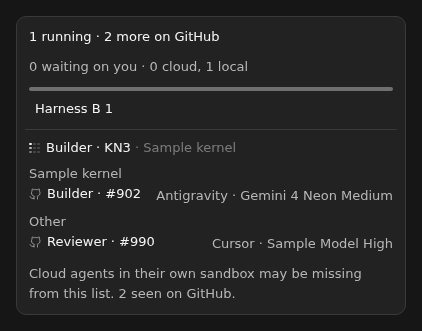
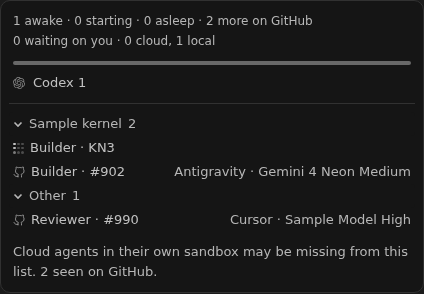
#234: green GitHub agents in the grouped running card

diff --git a/wizbar/src/StatsPanel.tsx b/wizbar/src/StatsPanel.tsx
@@ -10,7 +10,9 @@ import {
   useSettings,
   type PluginSidebarThread,
 } from "@get-bb/plugin-sdk/app";
-import { UnseenAgentGroups, UnseenDisclosure, UnseenSummary } from "./agents/UnseenAgents";
+import { agentsBySpec, UnseenAgentRows, UnseenDisclosure } from "./agents/UnseenAgents";
+import type { GitHubAgent } from "./agents/format";
+import { agentsSummary } from "./agents/words";
 import { useAgentsRead } from "./agents/use-agents";
 import { modelLabel } from "./card-meta";
 import { harnessName } from "./model-names";
@@ -207,7 +209,7 @@ interface ThreadGroup {
 }
 
 function RunningThreadsList({ groups, labels, pluginId }: {
-  groups: readonly ThreadGroup[];
+  groups: readonly (ThreadGroup & { githubAgents: readonly GitHubAgent[] })[];
   labels: ReadonlyMap<string, string>;
   pluginId: string;
 }) {
@@ -215,7 +217,7 @@ function RunningThreadsList({ groups, labels, pluginId }: {
   const groupId = useId();
   const [, refresh] = useReducer((n: number) => n + 1, 0);
   const folded = collapsedGroups.get(pluginId);
-  const lineCount = groups.reduce((count, group) => count + 1 + (folded?.has(group.key) ? 0 : group.threads.length), 0);
+  const lineCount = groups.reduce((count, group) => count + 1 + (folded?.has(group.key) ? 0 : group.threads.length + group.githubAgents.length), 0);
   const viewport = useRef<HTMLUListElement>(null);
   const [edges, setEdges] = useState({ top: false, bottom: false, height: 0 });
 
@@ -248,9 +250,9 @@ function RunningThreadsList({ groups, labels, pluginId }: {
           ...list, position: "absolute", inset: 0, minHeight: 0, maxHeight: `round(down, 100cqh, ${ROW_HEIGHT}px)`, overflowY: "auto", overscrollBehaviorY: "contain",
           scrollPaddingTop: (sticky ? 2 : 1) * ROW_HEIGHT, scrollPaddingBottom: ROW_HEIGHT,
         }}>
-          {groups.map(({ key, name, threads }) => {
+          {groups.map(({ key, name, threads, githubAgents }) => {
             const expanded = !folded?.has(key);
-            const count = threads.filter((thread) => !thread.leaving).length;
+            const count = threads.filter((thread) => !thread.leaving).length + githubAgents.length;
             const heading = `${groupId}-${key ?? "other"}`;
             const contents = `${heading}-threads`;
             return (
@@ -291,6 +293,9 @@ function RunningThreadsList({ groups, labels, pluginId }: {
                       </li>
                     );
                   })}
+                  {expanded && githubAgents.length > 0 ? (
+                    <UnseenAgentRows agents={githubAgents} heading={heading} rowStyle={rowButton} rowClass={rowClass} />
+                  ) : null}
                 </ul>
               </li>
             );
@@ -350,7 +355,11 @@ export function StatsPanel({ rows, stale = false }: { rows: readonly PluginSideb
       group.threads.push(thread);
     }
   }
-  const groups = [...bySpec.values(), other].filter((group) => group.threads.length > 0);
+  const githubBySpec = agentsBySpec(stats.unseen?.agents ?? [], file);
+  const groups = [...bySpec.values(), other]
+    .map((group) => ({ ...group, githubAgents: githubBySpec.get(group.key) ?? [] }))
+    .filter((group) => group.threads.length > 0 || group.githubAgents.length > 0);
+  const githubSummary = agentsSummary(stats.unseen);
   const summary = stats.status === "ready" ? `${cardSummary(stats)}${stale ? " · last known" : ""}` : "";
   return (
     <section aria-label="Running threads" data-stale={stale ? "true" : undefined} style={{
@@ -361,7 +370,9 @@ export function StatsPanel({ rows, stale = false }: { rows: readonly PluginSideb
       {stats.status !== "ready" ? <p style={quiet}>Stats unavailable</p> : (
         <>
           <div style={{ flexShrink: 0, fontSize: 12 }}>
-            <p style={{ ...quiet, ...oneLine }}>{stats.states.awake} awake · {stats.states.starting} starting · {stats.states.asleep} asleep</p>
+            <p style={githubSummary ? quiet : { ...quiet, ...oneLine }}>
+              {stats.states.awake} awake · {stats.states.starting} starting · {stats.states.asleep} asleep{githubSummary}
+            </p>
             <p style={quiet}>{summary}</p>
           </div>
           {stats.harness.length > 0 ? (
@@ -384,8 +395,6 @@ export function StatsPanel({ rows, stale = false }: { rows: readonly PluginSideb
             </div>
           ) : null}
           {groups.length > 0 ? <RunningThreadsList groups={groups} labels={labels} pluginId={pluginId} /> : null}
-          <UnseenSummary running={stats.running.total} unseen={stats.unseen} />
-          <ul style={list}><UnseenAgentGroups unseen={stats.unseen} specs={file} /></ul>
         </>
       )}
       <UnseenDisclosure unseen={stats.unseen} />

diff --git a/wizbar/src/agents/UnseenAgents.tsx b/wizbar/src/agents/UnseenAgents.tsx
@@ -1,73 +1,57 @@
+import type { CSSProperties } from "react";
 import { useBbNavigate } from "@get-bb/plugin-sdk/app";
 import { GithubIcon } from "@hugeicons/core-free-icons";
 import { HugeiconsIcon } from "@hugeicons/react";
-import type { SpecsFileV4 } from "../fixtures/v4";
+import type { SpecKeyV4, SpecsFileV4 } from "../fixtures/v4";
 import { tokens } from "../specs/theme";
 import type { GitHubAgent } from "./format";
 import type { UnseenAgents } from "./match";
-import { agentsDisclosure, agentsSummary } from "./words";
+import { agentsDisclosure } from "./words";
 
 const quiet = { color: tokens.mutedText } as const;
 const roles = { builder: "Builder", reviewer: "Reviewer", fleet: "Fleet" } as const;
-
-export function UnseenSummary({ running, unseen }: { running: number; unseen?: UnseenAgents }) {
-  const more = agentsSummary(unseen);
-  return more ? <p style={{ margin: 0, flexShrink: 0 }}>{running} running{more}</p> : null;
-}
 
 export function UnseenDisclosure({ unseen }: { unseen?: UnseenAgents }) {
   return <p style={{ ...quiet, margin: 0, flexShrink: 0 }}>{agentsDisclosure(unseen)}</p>;
 }
 
-export function UnseenAgentRows({ agents }: { agents: readonly GitHubAgent[] }) {
+export function UnseenAgentRows({ agents, heading, rowStyle, rowClass }: {
+  agents: readonly GitHubAgent[];
+  heading: string;
+  rowStyle: CSSProperties;
+  rowClass: string;
+}) {
   const navigate = useBbNavigate();
   return agents.map(({ repository, ticket, agent, harness, model, pr }) => {
     const number = ticket.slice(ticket.lastIndexOf("#") + 1);
     const url = pr ?? `https://github.com/${repository}/issues/${number}`;
+    const details = `${harness} · ${model}`;
     return (
       <li key={`${ticket}:${agent}`}>
-        <button type="button" className="bg-transparent hover:bg-sidebar-accent/60 focus-visible:ring-1 focus-visible:ring-inset"
-          style={{
-            appearance: "none", margin: 0, border: 0, borderRadius: 4,
-            color: "inherit", font: "inherit", textAlign: "left", width: "100%", padding: "0 4px",
-            display: "flex", alignItems: "baseline", flexWrap: "wrap", columnGap: 8, cursor: "pointer",
-          }}
+        <button type="button" className={rowClass} style={rowStyle} aria-describedby={heading}
           onClick={() => navigate.openUrl(url)}>
-          <span style={{ display: "inline-flex", alignItems: "center", gap: 6 }}>
-            <HugeiconsIcon icon={GithubIcon} size={12} strokeWidth={1.5} aria-hidden="true" style={quiet} />
-            {roles[agent]} · #{number}
-          </span>
-          <span style={{ ...quiet, marginLeft: "auto", overflowWrap: "anywhere" }}>{harness} · {model}</span>
+          <HugeiconsIcon icon={GithubIcon} size={12} strokeWidth={1.5} aria-hidden="true" style={{ ...quiet, flexShrink: 0 }} />
+          <span style={{ flexShrink: 0 }}>{roles[agent]} · #{number}</span>{" "}
+          <span title={details} style={{
+            ...quiet, marginLeft: "auto", minWidth: 0, overflow: "hidden", textOverflow: "ellipsis", whiteSpace: "nowrap",
+          }}>{details}</span>
         </button>
       </li>
     );
   });
 }
 
-export function UnseenAgentGroups({ unseen, specs }: { unseen?: UnseenAgents; specs: SpecsFileV4 | null }) {
-  if (!unseen?.count) return null;
-  const byTicket = new Map<string, string>();
+export function agentsBySpec(agents: readonly GitHubAgent[], specs: SpecsFileV4 | null) {
+  const byTicket = new Map<string, SpecKeyV4>();
   for (const spec of specs?.specs ?? []) {
     for (const { ticket } of spec.tickets) byTicket.set(ticket.toLowerCase(), spec.spec);
   }
-  const groups = new Map<string | null, GitHubAgent[]>();
-  for (const agent of unseen.agents) {
+  const groups = new Map<SpecKeyV4 | null, GitHubAgent[]>();
+  for (const agent of agents) {
     const spec = byTicket.get(agent.ticket.toLowerCase()) ?? null;
     const group = groups.get(spec) ?? [];
     group.push(agent);
     groups.set(spec, group);
   }
-  const order = (specs?.specs ?? []).map(({ spec, shortName }) => ({ spec, shortName }));
-  return [...order, { spec: null, shortName: "Other" }].map(({ spec, shortName }) => {
-    const agents = groups.get(spec);
-    if (!agents) return null;
-    return (
-      <li key={spec ?? "other"} style={{ paddingTop: 4 }}>
-        <div style={{ ...quiet, padding: "0 4px" }}>{shortName}</div>
-        <ul aria-label={shortName} style={{ listStyle: "none", padding: 0, margin: 0 }}>
-          <UnseenAgentRows agents={agents} />
-        </ul>
-      </li>
-    );
-  });
+  return groups;
 }

diff --git a/wizbar/src/agents/card.test.tsx b/wizbar/src/agents/card.test.tsx
@@ -51,7 +51,7 @@ it("counts GitHub rows in the running groups and opens their destinations", asyn
   expect(panel.querySelector("p")?.textContent).toBe("1 awake · 0 starting · 0 asleep · 2 more on GitHub");
   const spec = document.getElementById(specHeader.getAttribute("aria-controls")!)!;
   const other = document.getElementById(otherHeader.getAttribute("aria-controls")!)!;
-  expect(within(spec).getByRole("button", { name: "Working Builder · KN3" })).toBeDefined();
+  expect(within(spec).getByRole("button", { name: /Builder · KN3$/ })).toBeDefined();
   fireEvent.click(specHeader);
   expect(within(spec).queryByRole("button", { name: /Builder · #902/ })).toBeNull();
   fireEvent.click(specHeader);

diff --git a/wizbar/browser/running-card.test.ts b/wizbar/browser/running-card.test.ts
@@ -165,6 +165,10 @@ it.skipIf(!browserPath).each([600, 900])("shows all 100 threads in a %i px windo
     expect.soft(summary).toEqual([
       { text: "100 awake · 0 starting · 0 asleep", height: 20, fits: true },
       { text: "0 waiting on you · 0 cloud, 100 local", height: 20, fits: true },
+      expect.objectContaining({
+        text: "Cloud agents in their own sandbox may be missing from this list.",
+        fits: true,
+      }),
     ]);
     if (evidence) await page.screenshot({ path: resolve(evidence, `${height}-top.png`) });
     await list.hover();

diff --git a/docs/evidence/wizbar-0-7/g1/README.md b/docs/evidence/wizbar-0-7/g1/README.md
@@ -4,8 +4,9 @@
   GitHub fixture in `tools/specs-producer/agents.test.ts`. The run retained two
   live claims. A repeat run made conditional requests and received three
   unchanged comments pages.
-- [Running card](running-card.png) rendered in headless Chromium from the
-  plugin SDK card fixture in `src/agents/card.test.tsx`. A sidebar builder
-  counts as one running thread. A GitHub builder appears under Sample kernel,
-  and a GitHub reviewer appears under Other. The fixture also checks the two
-  browser destinations.
+- [Running card](running-card.png) rendered from the plugin SDK fixture in
+  headless Chromium. The Sample kernel header counts its running sidebar
+  thread and GitHub builder. The Other header counts its GitHub reviewer.
+  The card test checks folding and both GitHub destinations. A second
+  Chromium scene with 100 running threads and the same two GitHub rows
+  verified the fades, sticky header, scroll padding and the whole last row.
